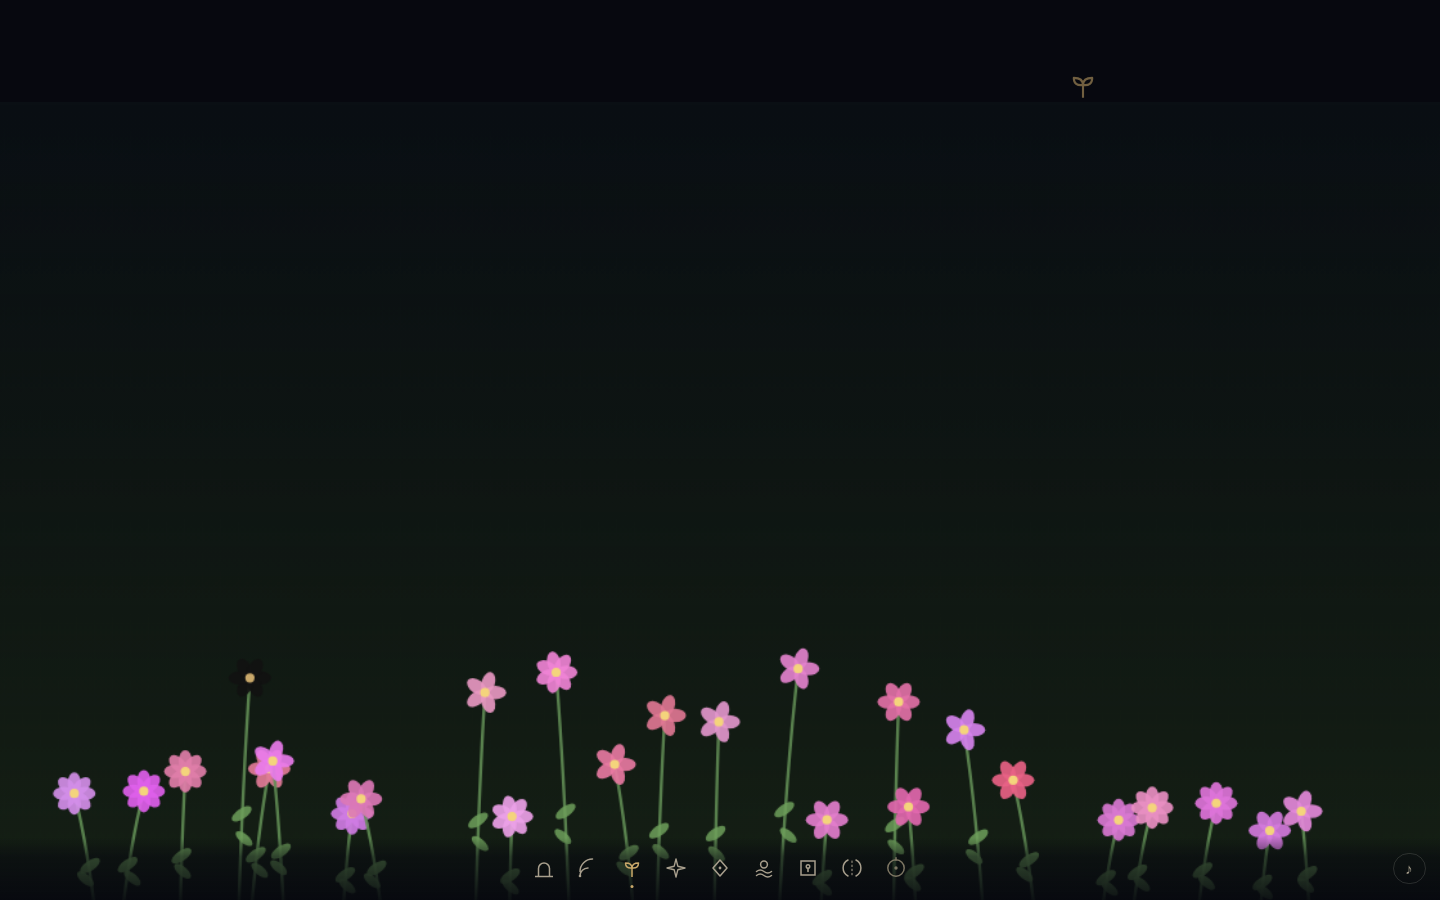
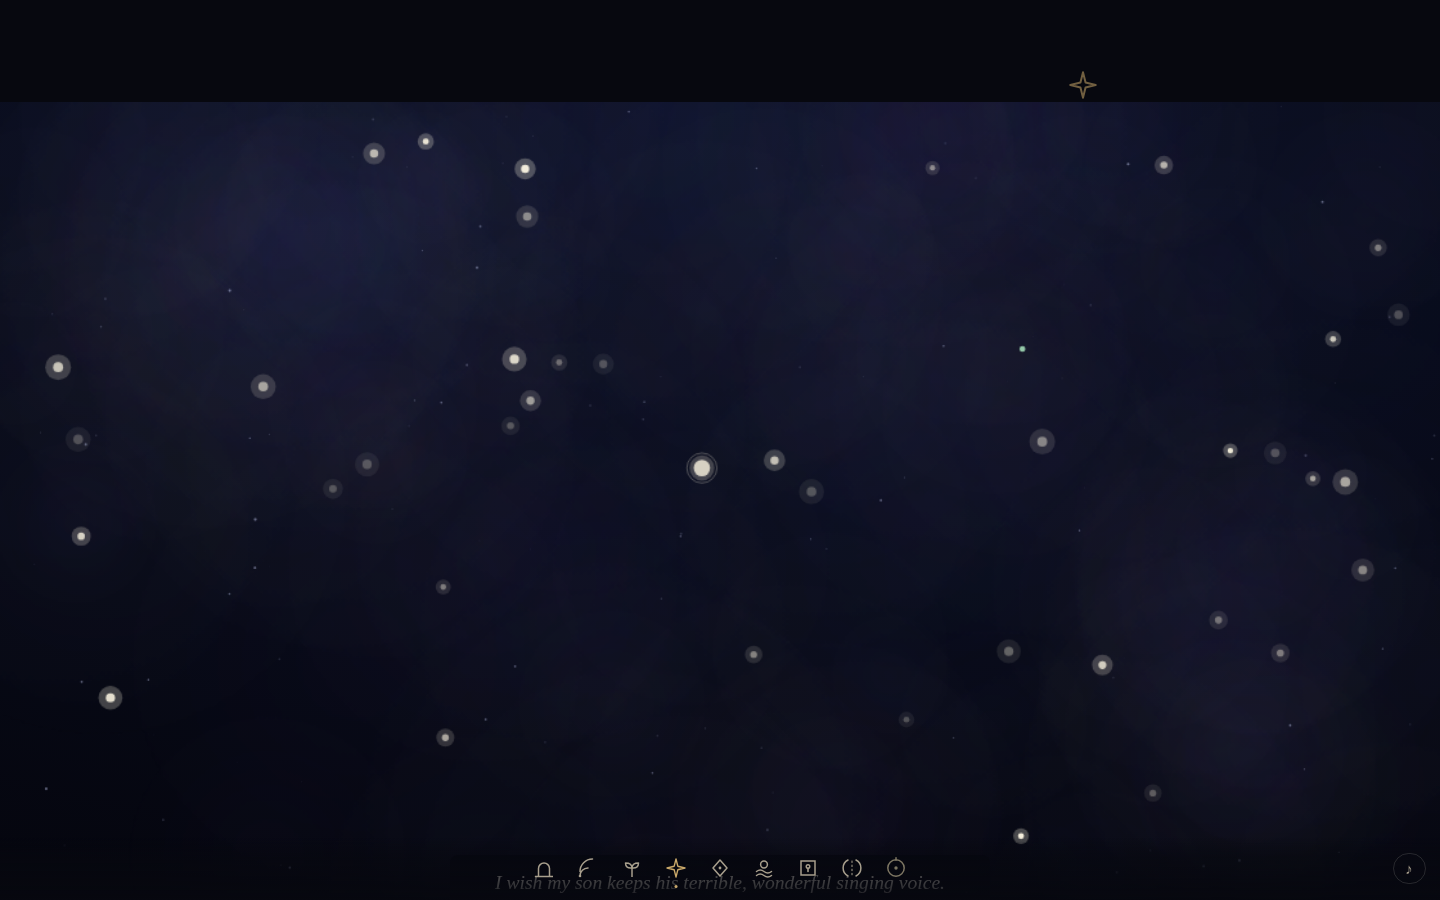
Wave 3 — The Deepening: the Wishfield Nebula (WebGPU trial; Canvas 2D fallback whole), Depth 27 (the Winter Notes, the Kept Shape), the Ninth Day built; arrival words unchanged at 752

diff --git a/assets/js/main.js b/assets/js/main.js
@@ -1,4 +1,4 @@
-/* The 9th Website — wave 1.
+/* The 9th Website — wave 1; the Text Ration, wave 2; the Deepening, wave 3.
    Everything here is enhancement. The place reads whole without it.
    No external requests. Memory lives only in the visitor's browser. */
 (function(){
@@ -149,6 +149,24 @@ function initScale(){
     var co=new IntersectionObserver(function(es){ es.forEach(function(e){ if(e.isIntersecting){ STORE.set("coda",true); co.disconnect(); } }); },{threshold:.4});
     co.observe(coda);
   }
+  /* The Winter Notes (Depth 27): the Cartographer's second fragment set,
+     findable only from the twenty-seventh visit, kept below the Rosetta.
+     One note per visit, drawn by the Reckoning (seed = D×19 + V×11,
+     recorded in the canon). The notes live in the data, not the page —
+     a first visit never carries them, and the ration is undisturbed. */
+  if(coda && visits>=27){
+    leaves().then(function(data){
+      if(!data.winterNotes || !data.winterNotes.length) return;
+      if(document.getElementById("winter-note")) return;
+      var r=mulberry32(daySeed()*19+visits*11);
+      var note=data.winterNotes[Math.floor(r()*data.winterNotes.length)];
+      var p=document.createElement("p");
+      p.className="winter-note"; p.id="winter-note";
+      p.innerHTML='<svg class="frag-mark"><use href="#g-mark"/></svg>';
+      p.appendChild(document.createTextNode("“"+note+"”"));
+      coda.appendChild(p);
+    }).catch(function(){});
+  }
 }
 
 /* ---------- The Garden (The Dayseed) ---------- */
@@ -156,7 +174,9 @@ function initGarden(){
   var cv=document.getElementById("garden-canvas"); if(!cv) return;
   var ctx=cv.getContext("2d"), W=cv.width, H=cv.height;
   var rng=mulberry32(daySeed());
-  var isNinth = new Date().getDate()===9;
+  var nowG=new Date();
+  var isNinth = nowG.getDate()===9;
+  var isNinthDay = nowG.getMonth()===8 && nowG.getDate()===9; /* September 9 — the Ninth Day (canon §VI) */
   var flowers=[];
   function makeFlower(x,y,golden,black,big){
     var petals=5+Math.floor(rng()*4);
@@ -166,12 +186,53 @@ function initGarden(){
       light: golden? 62 : black? 7 : 62+rng()*16,
       seed:rng()*Math.PI*2, golden:golden, black:black});
   }
-  /* the east bed: one golden flower, only on the 9th */
-  if(isNinth) makeFlower(W*0.82, H, true,false,true);
+  /* the east bed: one golden flower on the 9th of any month;
+     on the Ninth Day itself (September 9), nine of them */
+  if(isNinthDay){ for(var ng=0; ng<9; ng++) makeFlower(W*(0.60+0.045*ng), H, true,false, ng===4); }
+  else if(isNinth) makeFlower(W*0.82, H, true,false,true);
   /* exactly one black bloom, never the largest */
   makeFlower(W*(0.15+rng()*0.2), H, false,true,false);
   /* a white flower arrives only if the visitor has been to the Constellation first */
   var whiteFlower = isVisited("stars");
+  /* The Kept Shape (Depth 27): from the twenty-seventh visit, the Garden
+     keeps one plant whose form is derived from the visitor's earliest
+     recorded path — the Ghost Ledger's first entry, or this visit's path
+     when no earlier one survives. No new chance is introduced: the shape
+     is a function of the recorded path alone, turned through the wheel
+     (canon, the Master Code). Its heart carries the path as seed-dots. */
+  var kept=null;
+  if(visits>=27){
+    var srcPath = (ghosts.length && ghosts[0].length>=2) ? ghosts[0] : sessionPath;
+    if(srcPath.length>=2){
+      var ks=0; srcPath.forEach(function(c,i){ ks += (CHAMBERS.indexOf(c)+1)*(i+1)*27; });
+      var kr=mulberry32(ks);
+      kept={ x:W*(0.3+kr()*0.4), h:195+kr()*70, petals:5+Math.floor(kr()*5),
+             hue:38+kr()*30, lean:(kr()-.5)*22, seed:kr()*6.283, steps:srcPath.length };
+    }
+  }
+  function drawKept(t){
+    var ksway = REDUCED? 0 : Math.sin(t/1700+kept.seed)*3;
+    var ktx=kept.x+kept.lean+ksway, kty=H-kept.h;
+    ctx.strokeStyle="rgba(110,150,92,.95)"; ctx.lineWidth=3;
+    ctx.beginPath(); ctx.moveTo(kept.x,H); ctx.quadraticCurveTo(kept.x+kept.lean*.4,H-kept.h*.6,ktx,kty); ctx.stroke();
+    ctx.fillStyle="rgba(110,160,92,.85)";
+    ctx.beginPath(); ctx.ellipse(kept.x+kept.lean*.3,H-kept.h*.45,11,4.8,-.6,0,7); ctx.fill();
+    ctx.beginPath(); ctx.ellipse(kept.x+kept.lean*.5,H-kept.h*.35,10,4.4,.7,0,7); ctx.fill();
+    ctx.fillStyle="hsla("+kept.hue+",72%,66%,.95)";
+    for(var ki=0; ki<kept.petals; ki++){
+      var ka=(ki/kept.petals)*Math.PI*2 + (REDUCED?0:Math.sin(t/2100+kept.seed)*.04);
+      ctx.beginPath();
+      ctx.ellipse(ktx+Math.cos(ka)*11, kty+Math.sin(ka)*11, 11.5, 6.8, ka, 0, 7);
+      ctx.fill();
+    }
+    ctx.fillStyle="#f4d47c";
+    ctx.beginPath(); ctx.arc(ktx,kty,4.4,0,7); ctx.fill();
+    ctx.fillStyle="rgba(244,212,124,.85)";
+    for(var kd=0; kd<kept.steps; kd++){
+      var da=(kd/kept.steps)*Math.PI*2 - Math.PI/2;
+      ctx.beginPath(); ctx.arc(ktx+Math.cos(da)*10.5, kty+Math.sin(da)*10.5, 1.6, 0, 7); ctx.fill();
+    }
+  }
   var startT=null;
   function drawFlower(f,t){
     var sway = REDUCED? 0 : Math.sin(t/1600+f.seed)*3;
@@ -198,6 +259,7 @@ function initGarden(){
     ctx.fillStyle=gr; ctx.fillRect(0,0,W,H);
     ctx.fillStyle="rgba(70,52,30,.9)"; ctx.fillRect(0,H-14,W,14);
     flowers.forEach(function(f){ drawFlower(f,t||0); });
+    if(kept) drawKept(t||0);
     if(whiteFlower){
       ctx.fillStyle="rgba(245,242,230,.95)";
       var wx=W*0.6, wy=H-58;
@@ -243,6 +305,7 @@ function initGarden(){
 function initStars(){
   var cv=document.getElementById("stars-canvas"); if(!cv) return;
   var readEl=document.getElementById("wish-read");
+  initNebula();
   fetch("data/v1/wishes.json").then(function(r){ return r.json(); }).then(function(data){
     build(data.wishes);
   }).catch(function(){ build([]); });
@@ -254,9 +317,12 @@ function initStars(){
     });
     /* The Wrong Star: no wish, the wrong colour, slightly too still */
     stars.push({x:W*0.71, y:H*0.3, r:2.3, ph:0, wish:null, wrong:true});
-    /* The Moonkeeper's Star, only near the full moon */
+    /* The Moonkeeper's Star, only near the full moon —
+       and on the Ninth Day (September 9) regardless of phase (canon §VI) */
     var mp=moonPhase(new Date());
-    if(mp.illum>=0.92) stars.push({x:W*0.5, y:64, r:3.1, ph:1, wish:"I wish the moon keeps one wish of its own, unspoken.", moon:true});
+    var nowS=new Date();
+    var ninthDay = nowS.getMonth()===8 && nowS.getDate()===9;
+    if(mp.illum>=0.92 || ninthDay) stars.push({x:W*0.5, y:64, r:3.1, ph:1, wish:"I wish the moon keeps one wish of its own, unspoken.", moon:true});
     /* a far background of ordinary stars */
     var dust=[]; for(var i=0;i<160;i++) dust.push({x:rng()*W,y:rng()*H,r:rng()*1.1,ph:rng()*6.28});
     var hover=null;
@@ -290,6 +356,214 @@ function initStars(){
     });
     cv.addEventListener("pointerleave",function(){ readEl.classList.remove("show"); });
   }
+}
+
+/* ---------- The Wishfield Nebula (wave 3 — the WebGPU trial) ----------
+   Beneath the Wishfield's stars drifts a slow nebula: the dark between
+   wishes, which is not empty. Strangers' hopes rest in one shared dark;
+   the nebula is that dark, made visible — indigo and violet, with rare
+   traces of gold, the colour this place keeps for what endures.
+   The field's home positions are reckoned (seed = D×11 + 5, the canon);
+   only the drift is physics, and physics carries no content.
+   The motes are small and faint on purpose: thousands of them overlap
+   everywhere, and their sum — never any one of them — is the cloud. The
+   Canvas 2D stage reaches the same sum with fewer, larger breaths.
+
+   The fallback chain — each stage degrades to the chamber's full meaning:
+     1. WebGPU: a compute shader breathes 4,200 reckoned motes through a
+        slow flow field; an instanced render pass draws each as a soft disc.
+     2. Canvas 2D: the same reckoned homes as a hundred soft sprites —
+        fewer, larger, slower. The same dark, at a lower resolution.
+     3. No script at all: the frame's own sky (CSS) above the written
+        collection — exactly where wave 2 left the chamber.
+   A stage that cannot start hands the sky to the next, without a word. */
+function initNebula(){
+  var cv=document.getElementById("nebula-canvas"); if(!cv) return;
+  var W=cv.width, H=cv.height;
+  var rng=mulberry32(daySeed()*11+5);
+  var COUNT=4200, motes=[];
+  for(var i=0;i<COUNT;i++){
+    motes.push({ x:rng()*W, y:Math.pow(rng(),1.35)*H, size:8+rng()*34,
+      tone:rng(), phase:rng()*6.283, drift:.5+rng()*.8 });
+  }
+  var owner=null; /* null until a stage owns the sky: "gpu" or "2d" */
+  function freshCanvas(){
+    var n=document.createElement("canvas");
+    n.id="nebula-canvas"; n.width=W; n.height=H;
+    n.setAttribute("aria-hidden","true");
+    cv.replaceWith(n); cv=n; return n;
+  }
+  function stage2(){
+    if(owner==="2d") return;
+    owner="2d";
+    nebulaCanvas2D(freshCanvas(), motes, W, H);
+  }
+  /* The handover patience is long on purpose: the CSS sky is already
+     beneath everything, so waiting costs the visitor nothing, and the
+     trial's software adapter (SwiftShader, on a loaded machine) needed
+     ~7 s merely to answer requestAdapter — a shorter fuse hands the sky
+     to the fallback moments before the GPU stage arrives. On real
+     hardware the answer takes milliseconds; this timer only guards a
+     genuinely stalled stack. */
+  var timer=setTimeout(function(){ if(!owner) stage2(); }, 20000);
+  if(navigator.gpu && navigator.gpu.requestAdapter){
+    nebulaGPU(cv, motes, W, H,
+      function(){ return owner!=="2d"; },
+      function(){ stage2(); }
+    ).then(function(ok){
+      if(ok && !owner){ owner="gpu"; clearTimeout(timer); }
+      else if(!ok){ clearTimeout(timer); stage2(); }
+      /* ok, but the fallback already owns the sky: the GPU frame loop
+         sees its liveness check fail and stops itself. */
+    }).catch(function(){ clearTimeout(timer); stage2(); });
+  } else stage2();
+}
+
+function nebulaGPU(cv, motes, W, H, isLive, onLost){
+  return navigator.gpu.requestAdapter().then(function(adapter){
+    if(!adapter) return false;
+    return adapter.requestDevice().then(function(device){
+      /* Pin the device to the canvas element for the chamber's life.
+         An unreferenced device is garbage-collected by the browser and
+         reports itself lost ("destroyed") — in calm mode, where a single
+         settled frame is drawn and no loop keeps the closure alive, that
+         collection would hand the sky to the fallback for no reason but
+         housekeeping. Found by trial, wave 3. */
+      cv._nebulaDevice=device;
+      var ctx=cv.getContext("webgpu");
+      if(!ctx) return false;
+      var format=navigator.gpu.getPreferredCanvasFormat();
+      ctx.configure({device:device, format:format, alphaMode:"premultiplied"});
+      var N=motes.length;
+      var data=new Float32Array(N*4);
+      motes.forEach(function(m,i){ data[i*4]=m.x; data[i*4+1]=m.y; data[i*4+2]=m.size; data[i*4+3]=m.tone; });
+      var dataBuf=device.createBuffer({size:data.byteLength, usage:GPUBufferUsage.STORAGE|GPUBufferUsage.COPY_DST});
+      device.queue.writeBuffer(dataBuf,0,data);
+      var posBuf=device.createBuffer({size:N*8, usage:GPUBufferUsage.STORAGE});
+      var uniBuf=device.createBuffer({size:16, usage:GPUBufferUsage.UNIFORM|GPUBufferUsage.COPY_DST});
+      /* Two modules, not one: the compute stage writes the position
+         buffer, the render stage may only read it — a vertex shader is
+         never given read-write storage, so each stage declares the
+         bindings with the access its place in the pipeline allows. */
+      var WGSL_COMPUTE=[
+        "struct Mote { home: vec2f, size: f32, tone: f32 }",
+        "@group(0) @binding(0) var<storage, read> motes: array<Mote>;",
+        "@group(0) @binding(1) var<storage, read_write> pos: array<vec2f>;",
+        "@group(0) @binding(2) var<uniform> u: vec4f;", /* time, width, height, count */
+        "fn flow(p: vec2f, t: f32) -> vec2f {",
+        "  return vec2f(sin(p.y * 0.011 + t * 0.10) + cos(p.x * 0.007 - t * 0.06),",
+        "               cos(p.x * 0.009 - t * 0.08) + sin(p.y * 0.013 + t * 0.05));",
+        "}",
+        "@compute @workgroup_size(64)",
+        "fn drift(@builtin(global_invocation_id) id: vec3u) {",
+        "  let i = id.x;",
+        "  if (i >= u32(u.w)) { return; }",
+        "  let h = motes[i].home;",
+        "  pos[i] = h + flow(h, u.x) * 14.0 + flow(h * 2.17 + vec2f(131.0, 57.0), u.x * 0.6) * 5.0;",
+        "}"
+      ].join("\n");
+      var WGSL_RENDER=[
+        "struct Mote { home: vec2f, size: f32, tone: f32 }",
+        "@group(0) @binding(0) var<storage, read> motes: array<Mote>;",
+        "@group(0) @binding(1) var<storage, read> pos: array<vec2f>;",
+        "@group(0) @binding(2) var<uniform> u: vec4f;",
+        "struct VOut { @builtin(position) p: vec4f, @location(0) uv: vec2f, @location(1) tone: f32, @location(2) glow: f32 }",
+        "@vertex",
+        "fn draw(@builtin(vertex_index) vi: u32, @builtin(instance_index) ii: u32) -> VOut {",
+        "  let corners = array<vec2f, 6>(vec2f(-1.0,-1.0), vec2f(1.0,-1.0), vec2f(-1.0,1.0),",
+        "                                vec2f(-1.0,1.0), vec2f(1.0,-1.0), vec2f(1.0,1.0));",
+        "  let c = corners[vi];",
+        "  let m = motes[ii];",
+        "  let px = pos[ii] + c * m.size;",
+        "  var o: VOut;",
+        "  o.p = vec4f(px.x / u.y * 2.0 - 1.0, 1.0 - px.y / u.z * 2.0, 0.0, 1.0);",
+        "  o.uv = c;",
+        "  o.tone = m.tone;",
+        "  o.glow = 0.75 + 0.25 * sin(u.x * 0.35 + m.tone * 40.0);",
+        "  return o;",
+        "}",
+        "@fragment",
+        "fn paint(o: VOut) -> @location(0) vec4f {",
+        "  let fall = pow(max(0.0, 1.0 - length(o.uv)), 2.2);",
+        "  var col = mix(vec3f(0.13, 0.16, 0.38), vec3f(0.32, 0.20, 0.48), o.tone);",
+        "  col = mix(col, vec3f(0.79, 0.66, 0.42), smoothstep(0.93, 1.0, o.tone));",
+        "  let a = fall * 0.11 * o.glow;",
+        "  return vec4f(col * a, a);",
+        "}"
+      ].join("\n");
+      var computeModule=device.createShaderModule({code:WGSL_COMPUTE});
+      var renderModule=device.createShaderModule({code:WGSL_RENDER});
+      var computePipe=device.createComputePipeline({layout:"auto", compute:{module:computeModule, entryPoint:"drift"}});
+      var renderPipe=device.createRenderPipeline({
+        layout:"auto",
+        vertex:{module:renderModule, entryPoint:"draw"},
+        fragment:{module:renderModule, entryPoint:"paint", targets:[{format:format,
+          blend:{color:{srcFactor:"one", dstFactor:"one", operation:"add"},
+                 alpha:{srcFactor:"one", dstFactor:"one", operation:"add"}}}]},
+        primitive:{topology:"triangle-list"}
+      });
+      function bindGroup(pipe){
+        return device.createBindGroup({layout:pipe.getBindGroupLayout(0), entries:[
+          {binding:0, resource:{buffer:dataBuf}},
+          {binding:1, resource:{buffer:posBuf}},
+          {binding:2, resource:{buffer:uniBuf}}
+        ]});
+      }
+      var computeBG=bindGroup(computePipe), renderBG=bindGroup(renderPipe);
+      device.lost.then(function(){ onLost(); });
+      device.addEventListener("uncapturederror", function(){ onLost(); });
+      function frame(tms){
+        if(!isLive()) return;
+        if(!REDUCED && current!=="stars"){ requestAnimationFrame(frame); return; }
+        var t = REDUCED ? 26 : (tms||0)/1000;
+        device.queue.writeBuffer(uniBuf,0,new Float32Array([t,W,H,N]));
+        var enc=device.createCommandEncoder();
+        var cp=enc.beginComputePass();
+        cp.setPipeline(computePipe); cp.setBindGroup(0,computeBG);
+        cp.dispatchWorkgroups(Math.ceil(N/64)); cp.end();
+        var rp=enc.beginRenderPass({colorAttachments:[{
+          view:ctx.getCurrentTexture().createView(),
+          clearValue:{r:0,g:0,b:0,a:0}, loadOp:"clear", storeOp:"store"}]});
+        rp.setPipeline(renderPipe); rp.setBindGroup(0,renderBG);
+        rp.draw(6,N,0,0); rp.end();
+        device.queue.submit([enc.finish()]);
+        if(!REDUCED) requestAnimationFrame(frame);
+      }
+      requestAnimationFrame(frame);
+      return true;
+    });
+  }).catch(function(){ return false; });
+}
+
+/* Stage 2 of the chain: the same reckoned homes, drawn as soft sprites. */
+function nebulaCanvas2D(cv, motes, W, H){
+  var ctx=cv.getContext("2d"); if(!ctx) return;
+  function sprite(r,g,b){
+    var s=document.createElement("canvas"); s.width=s.height=128;
+    var c2=s.getContext("2d");
+    var gr=c2.createRadialGradient(64,64,0,64,64,64);
+    gr.addColorStop(0,"rgba("+r+","+g+","+b+",.55)");
+    gr.addColorStop(1,"rgba("+r+","+g+","+b+",0)");
+    c2.fillStyle=gr; c2.fillRect(0,0,128,128);
+    return s;
+  }
+  var sprites=[sprite(38,46,110), sprite(84,54,128), sprite(201,168,106)];
+  var blobs=motes.filter(function(_,i){ return i%35===0; }); /* 120 of the reckoned homes */
+  function render(t){
+    ctx.clearRect(0,0,W,H);
+    ctx.globalCompositeOperation="lighter";
+    blobs.forEach(function(m){
+      var sp = m.tone>0.93 ? sprites[2] : (m.tone>0.5 ? sprites[1] : sprites[0]);
+      var dx = REDUCED? 0 : Math.sin(t/9000*m.drift + m.phase)*26;
+      var dy = REDUCED? 0 : Math.cos(t/11000*m.drift + m.phase*1.7)*16;
+      var s=m.size*3.4;
+      ctx.globalAlpha=.05+.03*Math.sin((REDUCED?0:t/7000)+m.phase);
+      ctx.drawImage(sp, m.x+dx-s/2, m.y+dy-s/2, s, s);
+    });
+    ctx.globalAlpha=1; ctx.globalCompositeOperation="source-over";
+  }
+  render(0);
+  if(!REDUCED){ var fr=function(t){ if(current!=="stars"){requestAnimationFrame(fr);return;} render(t); requestAnimationFrame(fr); }; requestAnimationFrame(fr); }
 }
 
 /* ---------- The Letter Room (The Sealed Draw) ---------- */

diff --git a/assets/css/main.css b/assets/css/main.css
@@ -133,6 +133,11 @@ html.js .stop.in{opacity:1;transform:none}
 .coda p{max-width:34em;margin:14px auto;font-style:italic}
 .coda .rosetta{font-size:.86em;color:#8d8474;max-width:36em;font-style:normal;border-top:1px solid var(--line);padding-top:26px;margin-top:34px}
 .coda-mark{width:22px;height:22px}
+/* The Winter Notes (wave 3, Depth 27): found below the Rosetta from the
+   twenty-seventh visit. Signed with the Cartographer's Mark inverted —
+   the grammar's remembered position, used here for the first time. */
+.winter-note{border-top:1px solid var(--line);padding-top:26px;margin-top:34px}
+.winter-note .frag-mark{transform:scaleY(-1)}
 
 /* ---------- Garden ---------- */
 .garden-frame canvas{background:linear-gradient(to bottom,#0a0f14,#0c130d)}
@@ -140,7 +145,14 @@ html.js .stop.in{opacity:1;transform:none}
 .oracle-slip{font-family:var(--sans);letter-spacing:.18em;font-size:.78em;text-transform:uppercase;color:var(--gold);text-align:center;margin-top:30px}
 
 /* ---------- Constellation ---------- */
-.stars-frame canvas{background:radial-gradient(120% 100% at 50% 0%, #0b1026, #05060f)}
+/* Wave 3: the sky moved to the frame itself, so the Wishfield Nebula can
+   drift beneath the stars on its own canvas. If no script ever runs, the
+   frame's sky is what remains — the first stage of the fallback chain. */
+.stars-frame{background:radial-gradient(120% 100% at 50% 0%, #0b1026, #05060f)}
+.stars-frame canvas{background:transparent}
+#nebula-canvas{position:absolute;inset:0;width:100%;height:100%;pointer-events:none}
+#stars-canvas{position:relative;z-index:1}
+.wish-read{z-index:2}
 .wish-read{
   position:absolute;left:50%;bottom:14px;transform:translateX(-50%);
   width:min(92%,540px);text-align:center;margin:0;padding:12px 18px;border-radius:8px;

diff --git a/index.html b/index.html
@@ -160,6 +160,7 @@ html{background:#07080f}
   <div class="chamber-inner">
     <svg class="glyph-corner"><use href="#g-stars"/></svg>
     <div class="canvas-frame stars-frame bleed">
+      <canvas id="nebula-canvas" width="1120" height="640" aria-hidden="true"></canvas>
       <canvas id="stars-canvas" width="1120" height="640" aria-label="A starfield of wishes"></canvas>
       <p class="wish-read" id="wish-read" aria-live="polite"></p>
     </div>
